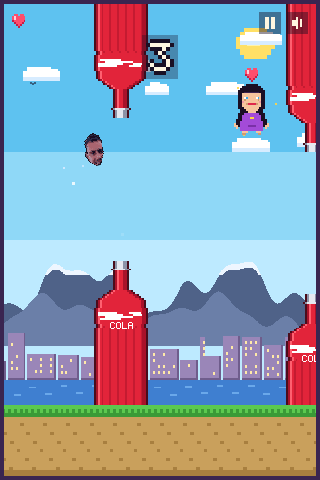
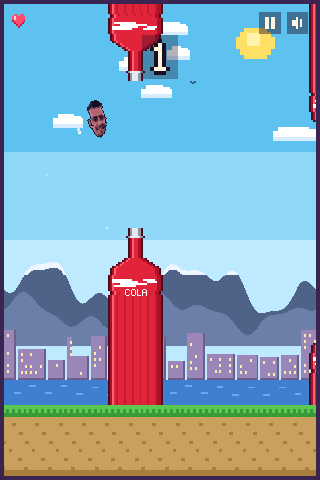
Fit the whole head into the hero sprite
The cut-out ellipse was both too narrow and sitting too high, so it sliced
the ears - the right one worst - and the crop itself ended at the chin. The
head measures x=220..895 and y=470..1440 in the photo, so the crop and the
ellipse now follow those bounds, and the sprite is 36x36 to keep drawing 1:1.

Cleaning the cut-out got two more passes: pale cool-toned pixels near the
edge (the lake and the city behind the head, which are not blue enough to
look like sky) are dropped, as is any fringe left hanging on the silhouette,
and only the largest blob survives so no specks float beside the face.

Claude-Session: https://claude.ai/code/session_01XW6BYSZqDpLMGQiBQsJifR

diff --git a/src/assets-data.js b/src/assets-data.js
@@ -1,5 +1,5 @@
 // Generated by tools/make_assets.py - do not edit by hand.
[2 lines of base64/hex data omitted]
 
 const SPRITE_DATA = {
   "katy": {

diff --git a/src/game.js b/src/game.js
@@ -10,7 +10,7 @@
   const GROUND_Y = H - GROUND_H;
 
   const HERO_X = 76;
-  const HERO_SIZE = 32;
+  const HERO_SIZE = 36;   // matches the generated sprite, so it draws 1:1
   const HERO_R = 12;
 
   const GRAVITY = 0.34;

diff --git a/tools/make_assets.py b/tools/make_assets.py
@@ -20,11 +20,35 @@ from PIL import Image, ImageDraw, ImageEnhance, ImageOps
 ROOT = os.path.dirname(os.path.dirname(os.path.abspath(__file__)))
 
 # Head position inside the source photo (centre x, centre y, square crop size).
-HEAD = (555, 885, 900)
+# Measured off the photo: hair top y=470, chin y=1440, ears x=220 and x=895.
+HEAD = (557, 950, 1060)
 # Half width / half height of the head inside that crop, in source pixels.
-HEAD_RX, HEAD_RY = 320, 425
-SIZE = 32
+HEAD_RX, HEAD_RY = 350, 495
+SIZE = 36
 OUTLINE = (26, 20, 34, 255)
+
+
+def largest_blob(mask_px):
+    """The biggest 4-connected run of opaque pixels in the mask."""
+    seen = set()
+    best = set()
+    for y in range(SIZE):
+        for x in range(SIZE):
+            if not mask_px[x, y] or (x, y) in seen:
+                continue
+            blob = set()
+            stack = [(x, y)]
+            seen.add((x, y))
+            while stack:
+                cx, cy = stack.pop()
+                blob.add((cx, cy))
+                for nx, ny in ((cx + 1, cy), (cx - 1, cy), (cx, cy + 1), (cx, cy - 1)):
+                    if 0 <= nx < SIZE and 0 <= ny < SIZE and mask_px[nx, ny] and (nx, ny) not in seen:
+                        seen.add((nx, ny))
+                        stack.append((nx, ny))
+            if len(blob) > len(best):
+                best = blob
+    return best
 
 
 def build_hero(photo_path):
@@ -33,9 +57,9 @@ def build_hero(photo_path):
     face = src.crop((cx - s // 2, cy - s // 2, cx + s // 2, cy + s // 2))
 
     small = face.resize((SIZE, SIZE), Image.BOX)
-    small = ImageEnhance.Color(small).enhance(1.55)
-    small = ImageEnhance.Contrast(small).enhance(1.18)
-    small = ImageEnhance.Brightness(small).enhance(1.05)
+    small = ImageEnhance.Color(small).enhance(1.6)
+    small = ImageEnhance.Contrast(small).enhance(1.24)
+    small = ImageEnhance.Brightness(small).enhance(1.08)
     flat = small.quantize(colors=16, method=Image.MEDIANCUT, dither=Image.NONE).convert("RGB")
 
     # Head-shaped cut-out, rasterised at 8x then thresholded for hard pixel edges.
@@ -47,12 +71,45 @@ def build_hero(photo_path):
          (SIZE / 2 + rx) * up - 1, (SIZE / 2 + ry) * up - 1), fill=255)
     mask = mask.resize((SIZE, SIZE), Image.BOX).point(lambda v: 255 if v >= 128 else 0)
 
-    # Drop the sky that survives inside the ellipse: skin and hair are never blue.
+    # Drop the background that survives inside the ellipse. Sky is plainly blue;
+    # the lake and the city behind the head are pale and never warm like skin,
+    # and they only ever show up close to the edge of the cut-out.
     mp, fp = mask.load(), flat.load()
     for y in range(SIZE):
         for x in range(SIZE):
+            if not mp[x, y]:
+                continue
             r, g, b = fp[x, y]
-            if mp[x, y] and b > r + 22 and b > 130:
+            edge = math.hypot((x + 0.5 - SIZE / 2) / rx, (y + 0.5 - SIZE / 2) / ry)
+            if b > r + 22 and b > 130:
+                mp[x, y] = 0
+            elif edge > 0.6 and max(r, g, b) > 110 and b >= r - 10:
+                mp[x, y] = 0
+
+    # Pale, cool pixels left hanging on the silhouette are background fringe.
+    for _ in range(2):
+        doomed = []
+        for y in range(SIZE):
+            for x in range(SIZE):
+                if not mp[x, y]:
+                    continue
+                r, g, b = fp[x, y]
+                if max(r, g, b) <= 110 or b < r - 10:
+                    continue
+                open_sides = sum(
+                    1 for nx, ny in ((x + 1, y), (x - 1, y), (x, y + 1), (x, y - 1))
+                    if not (0 <= nx < SIZE and 0 <= ny < SIZE) or not mp[nx, ny]
+                )
+                if open_sides:
+                    doomed.append((x, y))
+        for x, y in doomed:
+            mp[x, y] = 0
+
+    # Keep only the head itself - sky removal can leave loose specks behind.
+    keep = largest_blob(mp)
+    for y in range(SIZE):
+        for x in range(SIZE):
+            if mp[x, y] and (x, y) not in keep:
                 mp[x, y] = 0
 
     head = flat.convert("RGBA")

diff --git a/README.md b/README.md
@@ -116,7 +116,7 @@ src/scores.js         рейтинг: Supabase + локальное зеркал
 src/audio.js          чиптюн-звуки на WebAudio
 src/overlay.js        диалог «Кто вы?»
 src/game.js           игровой цикл, физика, враги, экраны, интерфейс
-assets/hero.png       спрайт лица 32x32
+assets/hero.png       спрайт лица 36x36
 supabase/schema.sql   таблица рейтинга и политики доступа
 tools/make_assets.py  генерация спрайтов из фотографии
 tools/smoke-test.js   headless-проверка игры через Playwright
@@ -132,8 +132,9 @@ pip install pillow
 python3 tools/make_assets.py путь/к/фото.jpg
 ```
 
-Лицо вырезается по эллипсу-голове, уменьшается до 32x32, квантуется до 16
-цветов и обводится контуром. Скрипт перезаписывает `assets/hero.png` и
+Лицо вырезается по эллипсу-голове, уменьшается до 36x36, квантуется до 16
+цветов, очищается от остатков фона (небо, город за головой, одиночные пиксели
+на контуре) и обводится тёмным контуром. Скрипт перезаписывает `assets/hero.png` и
 `src/assets-data.js`; исходное фото в репозиторий не попадает. Положение головы
 задаётся константами `HEAD`, `HEAD_RX`, `HEAD_RY` в начале скрипта.
 
